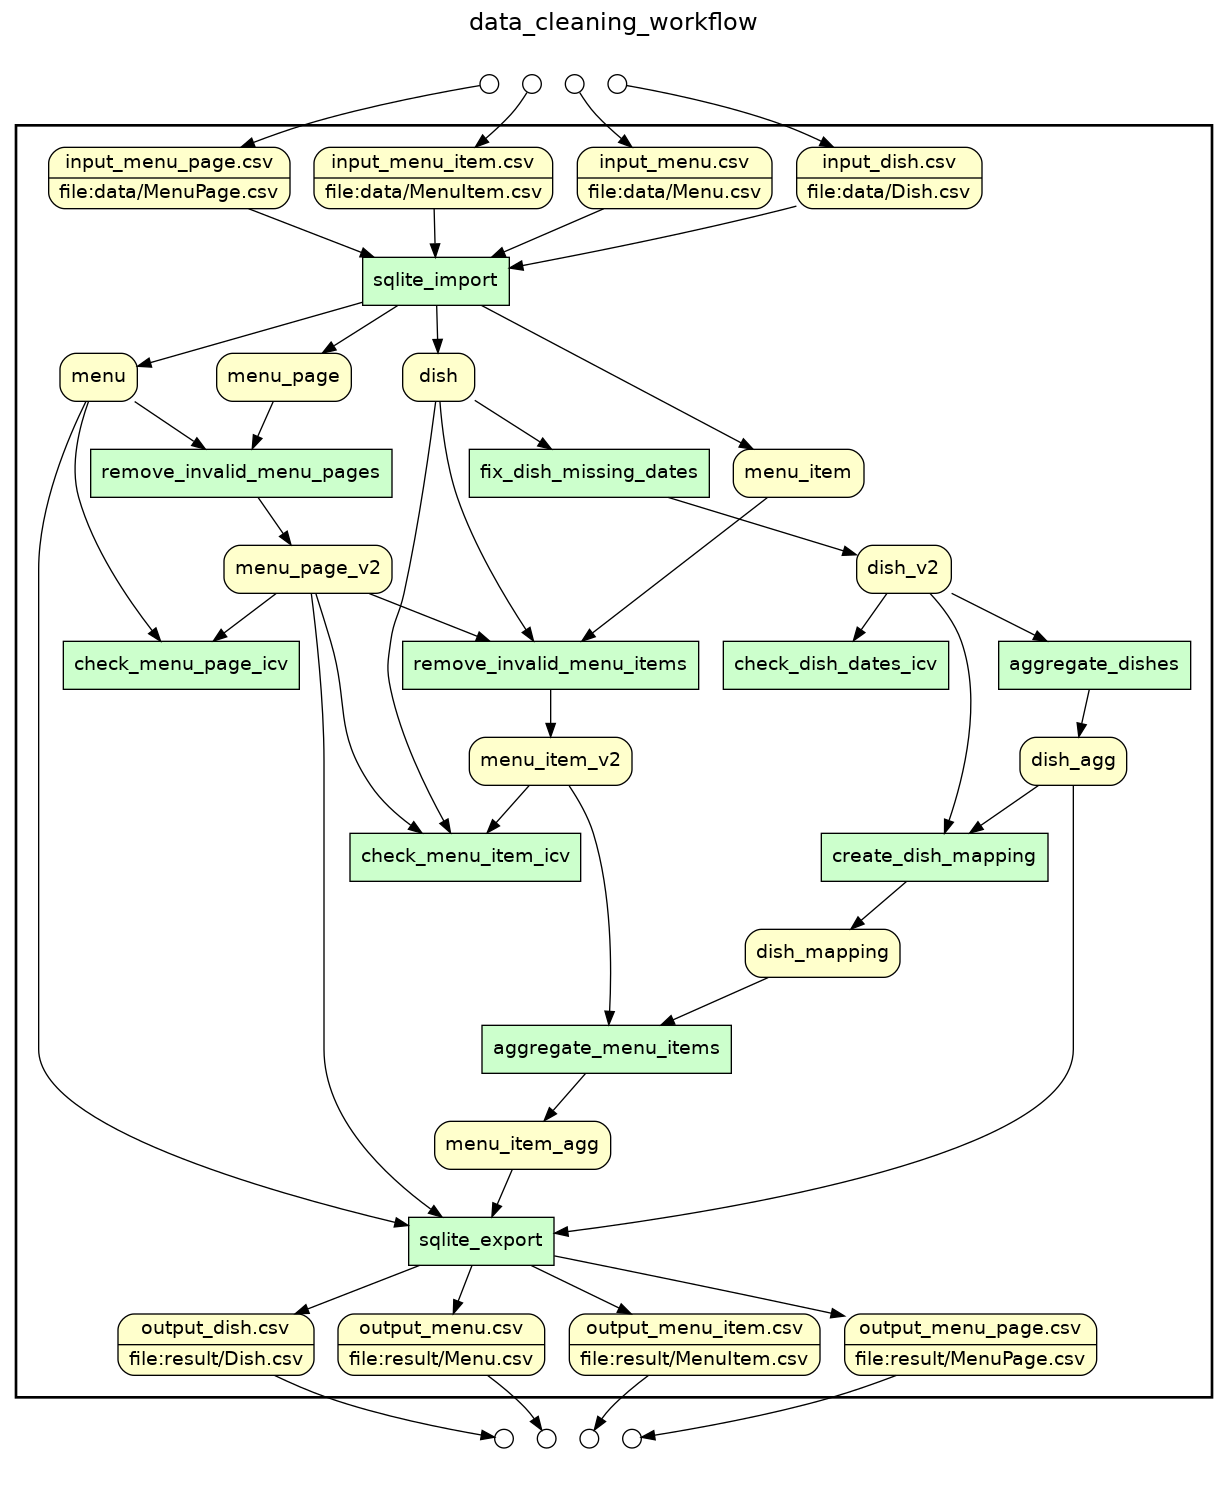
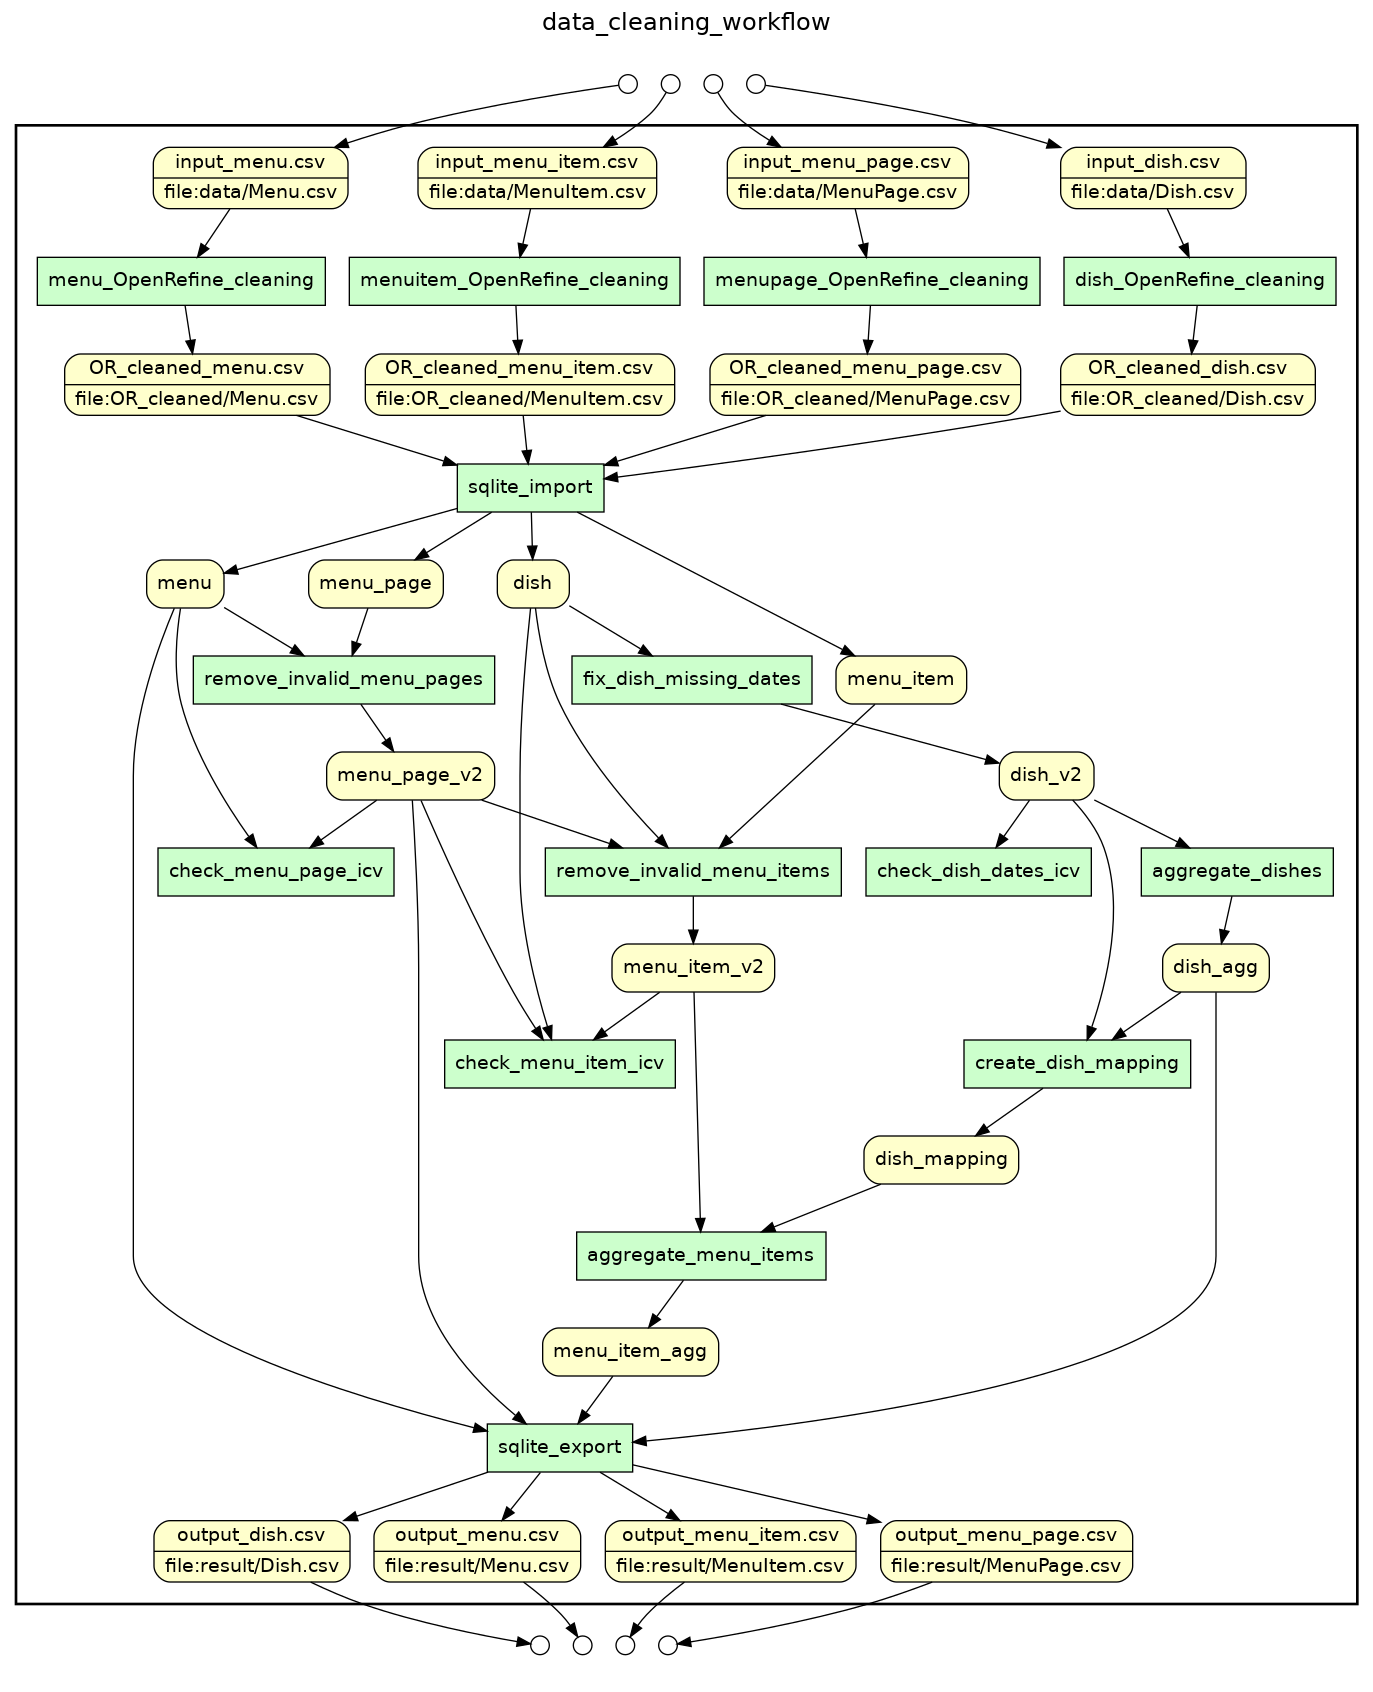
Updated with OpenRefine

diff --git a/main.py b/main.py
@@ -13,12 +13,32 @@ import shutil
 # @out output_menu_item.csv @uri file:result/MenuItem.csv
 # @out output_menu_page.csv @uri file:result/MenuPage.csv
 
+# @begin dish_OpenRefine_cleaning
+# @in input_dish.csv
+# @out OR_cleaned_dish.csv @uri file:OR_cleaned/Dish.csv
+# @end dish_OpenRefine_cleaning
+
+# @begin menupage_OpenRefine_cleaning
+# @in input_menu_page.csv
+# @out OR_cleaned_menu_page.csv @uri file:OR_cleaned/MenuPage.csv
+# @end menupage_OpenRefine_cleaning
+
+# @begin menuitem_OpenRefine_cleaning
+# @in input_menu_item.csv
+# @out OR_cleaned_menu_item.csv @uri file:OR_cleaned/MenuItem.csv
+# @end menuitem_OpenRefine_cleaning
+
+# @begin menu_OpenRefine_cleaning
+# @in input_menu.csv
+# @out OR_cleaned_menu.csv @uri file:OR_cleaned/Menu.csv
+# @end menu_OpenRefine_cleaning
+
 
 # @begin sqlite_import
-# @in input_dish.csv
-# @in input_menu.csv
-# @in input_menu_item.csv
-# @in input_menu_page.csv
+# @in OR_cleaned_dish.csv
+# @in OR_cleaned_menu.csv
+# @in OR_cleaned_menu_item.csv
+# @in OR_cleaned_menu_page.csv
 # @out dish
 # @out menu
 # @out menu_item
@@ -32,26 +52,6 @@ def init_db(data_folder):
     return con
 # @end sqlite_import
 
-# @begin dish_OpenRefine_cleaning
-# @in dish
-# @out OR_cleaned_dish
-# @end dish_OpenRefine_cleaning
-
-# @begin menupage_OpenRefine_cleaning
-# @in menu_page
-# @out OR_cleaned_menu_page
-# @end menupage_OpenRefine_cleaning
-
-# @begin menuitem_OpenRefine_cleaning
-# @in menu_item
-# @out OR_cleaned_menu_item
-# @end menuitem_OpenRefine_cleaning
-
-# @begin menu_OpenRefine_cleaning
-# @in menu
-# @out OR_cleaned_menu
-# @end menu_OpenRefine_cleaning
-
 def export_table(table_name, file_name, con):
     df = pd.read_sql_query('SELECT * FROM ' + table_name, con)
     if 'index' in df.columns:
@@ -61,7 +61,7 @@ def export_table(table_name, file_name, con):
 
 # @begin sqlite_export
 # @in dish_agg
-# @in OR_cleaned_menu
+# @in menu
 # @in menu_item_agg
 # @in menu_page_v2
 # @out output_dish.csv @uri file:result/Dish.csv
@@ -82,8 +82,8 @@ def export_db(result_folder, con):
 
 def cleanup_missing_references(cursor):
     # @begin remove_invalid_menu_pages
-    # @in OR_cleaned_menu_page
-    # @in OR_cleaned_menu
+    # @in menu_page
+    # @in menu
     # @out menu_page_v2
     cursor.execute('''
             DELETE FROM MenuPage WHERE id in (
@@ -95,8 +95,8 @@ def cleanup_missing_references(cursor):
     # @end remove_invalid_menu_pages
 
     # @begin remove_invalid_menu_items
-    # @in OR_cleaned_menu_item
-    # @in OR_cleaned_dish
+    # @in menu_item
+    # @in dish
     # @in menu_page_v2
     # @out menu_item_v2
     cursor.execute('''
@@ -119,7 +119,7 @@ def cleanup_missing_references(cursor):
 def check_reference_icv(cursor):
     # @begin check_menu_item_icv
     # @in menu_item_v2
-    # @in OR_cleaned_dish
+    # @in dish
     # @in menu_page_v2
     rows = cursor.execute('''
             SELECT MenuItem.id FROM MenuItem
@@ -137,7 +137,7 @@ def check_reference_icv(cursor):
 
     # @begin check_menu_page_icv
     # @in menu_page_v2
-    # @in OR_cleaned_menu
+    # @in menu
     rows = cursor.execute('''
                 SELECT MenuPage.id FROM MenuPage
                 LEFT JOIN Menu on MenuPage.menu_id = Menu.id
@@ -149,7 +149,7 @@ def check_reference_icv(cursor):
 
 def fix_missing_dish_dates(cursor):
     # @begin fix_dish_missing_dates
-    # @in OR_cleaned_dish
+    # @in dish
     # @out dish_v2
     cursor.execute('''
                 UPDATE Dish
@@ -223,7 +223,7 @@ def aggregate_dishes(cursor):
 # @end data_cleaning_workflow
 
 if __name__ == '__main__':
-    con = init_db('data')
+    con = init_db('OR_cleaned')
     cursor = con.cursor()
     cleanup_missing_references(cursor)
     check_reference_icv(cursor)
